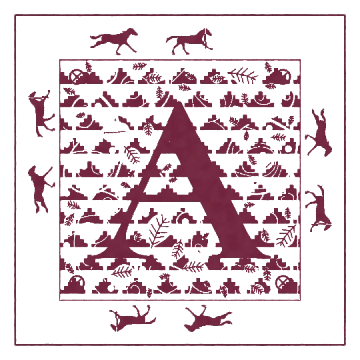
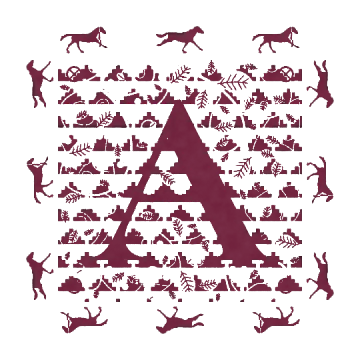
Voices drop caps: exactly four lines deep (three on phones), the horse band on the first line's capitals and the last line's baseline; three horses on every side, evenly spaced (band setting fHorseN); no rule lines
Claude-Session: https://claude.ai/code/session_019R7gPpA5XMnJ1Z11oENPQt

Changed region(s): [[0.0306, 0.0306, 0.9778, 0.9778]]

diff --git a/css/voices.css b/css/voices.css
@@ -52,7 +52,12 @@ html.arrived .v-inner > :nth-child(2) { animation-delay: .14s; }
 .sec .data { font-size: .82em; letter-spacing: .01em; }
 
 /* illuminated drop caps */
-.v-cap { float: left; width: clamp(92px, 7.8vw, 128px); aspect-ratio: 1; margin: .32em .55em .1em 0; }
+.v-cap { /* a drop cap exactly four lines deep: the horse band's top on the first line's capital height, its bottom on
+             the fourth line's baseline. The image has ~7.5% empty margin round the band (--pad), left to hang out. */
+  --lines: 4; --capH: .68em; --pad: .075;
+  --h: calc((var(--lines) - 1) * 1lh + var(--capH)); --s: calc(var(--h) / (1 - 2 * var(--pad)));
+  float: left; width: var(--s); height: var(--s);
+  margin: calc((1lh - 1em) / 2 + .27em - var(--s) * var(--pad)) .5em calc(var(--s) * var(--pad) * -1) calc(var(--s) * var(--pad) * -1); }
 .v-cap img { display: block; width: 100%; height: 100%; }
 .v-cap .v-cap-l { position: absolute; width: 1px; height: 1px; overflow: hidden; clip: rect(0 0 0 0); }
 .v-cap.plain { width: auto; aspect-ratio: auto; font-family: var(--f-display); font-weight: 900; font-size: 4.2em; line-height: .8; margin-top: .08em; }
@@ -158,7 +163,7 @@ html.arrived .v-inner > :nth-child(2) { animation-delay: .14s; }
   .vl-box { flex-direction: column; gap: 12px; }
   .vl-go { align-self: flex-start; padding: .7em 1.4em; }
   .v-h2 { font-size: clamp(34px, 11vw, 52px); }
-  .v-cap { width: 76px; margin-right: .45em; }
+  .v-cap { --lines: 3; }
   .mx thead th { padding: 0 6px 10px; font-size: 9.5px; letter-spacing: .08em; }
   .mx thead th span { display: none; }
   .mx tbody th { padding-right: 6px; white-space: normal; }
@@ -175,8 +180,7 @@ html.arrived .v-inner > :nth-child(2) { animation-delay: .14s; }
 @media (prefers-reduced-motion: reduce) { html.arrived .v-inner > * { animation: none; } }
 /* images painted on paper take the page's own paper (it is darker in dark mode) */
 .st-spec img, .score-svg image, .v-cap img { mix-blend-mode: multiply; }
-.v-cap { width: clamp(108px, 9.2vw, 150px); }
-@media (max-width: 700px) { .v-cap { width: 80px; } }
+
 
 .v-live .v-h2 { margin-left: 0; }
 .pipe-row li + li { margin-left: 24px; }

diff --git a/js/kinds/steppe.js b/js/kinds/steppe.js
@@ -68,9 +68,24 @@ export default [
     family: 'band', name: 'horses',
     // a procession round the frame along its inner edge: each horse turned to the band's direction, its hooves on
     // the inner rule (so the bottom run is upside down, as on a carved border read by turning the panel)
-    draw({ out, along, w, L }) {
+    draw({ out, along, w, L, path, settings }) {
+      const Q = Math.PI / 2;
+      // fHorseN: a set number of horses on every side, evenly spaced and centred on it (a grid, no gaps at corners)
+      if (settings && settings.fHorseN) {
+        const k = settings.fHorseN, xs = path.map(p => p[0]), ys = path.map(p => p[1]);
+        const x0 = Math.min(...xs), x1 = Math.max(...xs), y0 = Math.min(...ys), y1 = Math.max(...ys);
+        const fine = along(L / 400), dirAt = (x, y) => { let b = fine[0], d = Infinity; for (const p of fine) { const e = (p.x - x) ** 2 + (p.y - y) ** 2; if (e < d) { d = e; b = p; } } return Math.round(b.a / Q) * Q; };
+        const sides = [[x0, y0, x1, y0], [x1, y0, x1, y1], [x1, y1, x0, y1], [x0, y1, x0, y0]];
+        let i = 0;
+        for (const [ax, ay, bx, by] of sides) {
+          const a = dirAt((ax + bx) / 2, (ay + by) / 2), nx = -Math.sin(a), ny = Math.cos(a), h = w * 0.62;
+          for (let j = 0; j < k; j++) { const t = (j + .5) / k, x = ax + (bx - ax) * t, y = ay + (by - ay) * t;
+            out.polys.push(horse(x + nx * w * 0.4, y + ny * w * 0.4, h, a, false, i++)); }
+        }
+        return;
+      }
       // only quarter turns: each horse square to its side of the frame, none on a corner (where the band turns)
-      const n = Math.max(4, Math.round(L / (w * 1.75))), pts = along(L / n), Q = Math.PI / 2;
+      const n = Math.max(4, Math.round(L / (w * 1.75))), pts = along(L / n);
       pts.slice(0, n).forEach((p, i) => {
         const a = Math.round(p.a / Q) * Q, off = Math.abs(Math.atan2(Math.sin(p.a - a), Math.cos(p.a - a)));
         if (off > .05) return;

diff --git a/tools/voices-initials.html b/tools/voices-initials.html
@@ -9,7 +9,8 @@ const pal = await fetch('palette.json').then(r => r.json());
 const out = {};
 for (const [i, L] of ['S', 'T', 'V', 'A', 'K', 'W'].entries()) {
   const c = document.createElement('canvas');
-  await draw(c, leafP({ random }, i + 90, { ...pal[(i + 2) % pal.length], paper: '#efe7d6' }, L), { size: 360 });
+  // a horse on every side in a 3 x 3 rhythm (three per side, centred), and no rule lines: the band and the panel only
+  await draw(c, { ...leafP({ random }, i + 90, { ...pal[(i + 2) % pal.length], paper: '#efe7d6' }, L), fBand: 'horses', fHorseN: 3, fW1: 0, fW2: 0 }, { size: 360 });
   out[L] = c.toDataURL('image/webp', .9);
 }
 window.OUT = out; document.title = 'done';
